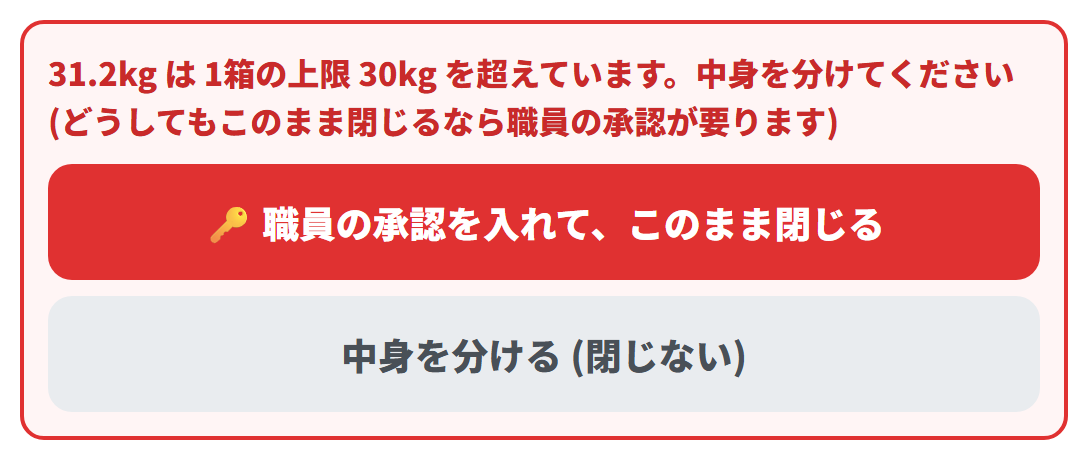
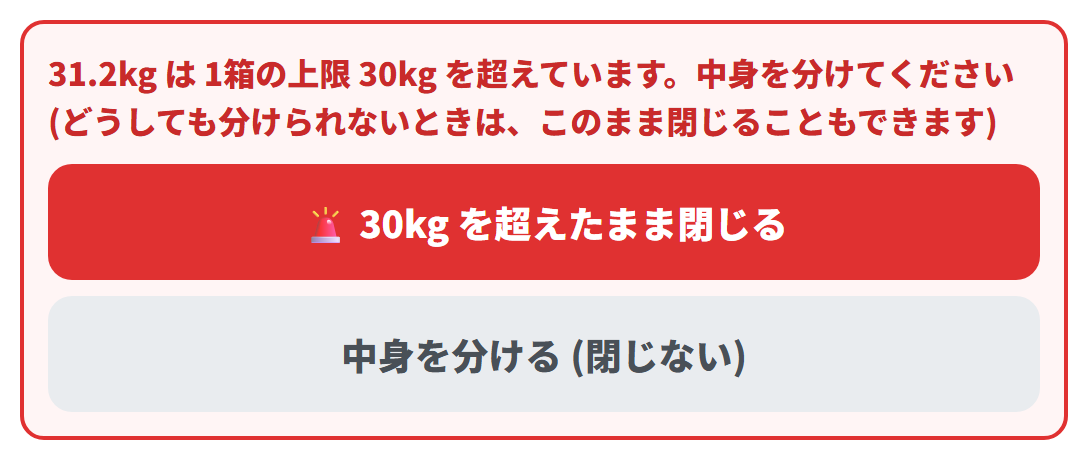
FBA箱詰め: 上限30kg超えで閉じるときの職員PINを外す (中原さん判断)
中原さん 2026-09-10「PIN も要らないかな」。
職員が近くにいないと箱が閉じられず、そこで作業が止まってしまうため。

外したもの:
- /api/boxes/:id/close の override に対する staffApproval (PIN / 管理者セッション)
- 画面の staffPinPrompt 経路。ボタンも「🔑 職員の承認を入れて…」→「🚨 30kg を超えたまま閉じる」

残したもの (歯止め):
- 二段階は維持。override を付けない1回目は今までどおり 409 で断る
  (= うっかり閉じるにはならない。必ず赤いパネルを一度見る)
- 誰が決めたかを箱に残す。limit_override_by = 閉じた作業者本人
  (作業者が分からない送信は今までどおり 400)
- 本社の出荷前チェック warnings.over_weight_limit は残す
  → 文面を「(職員の承認で閉じた箱)」→「(現場が『このまま閉じる』を選んだ箱)」に

副作用: 職員PIN の画面でダイアログが外れる経路が無くなったので、
Codex R2 P2 で入れた「⏳送信中」の板 (sticky) は不要になり撤去。
送信中のロックは setBusy (ボタン + 背景タップ) だけで足りる。

マニュアル: ⑦ に「どうしても分けられないときは閉じられる (決めた人の名前が残る)」、
⑨ の「PIN が要ること」から上限超えの承認を外し、理由と代わりの歯止めを書いた。画像も撮り直し。

検証:
  ux-fba-close-weight ② PIN 画面が出ない / 箱=closed / 決めた人=りようしゃ /
                        出荷前チェックに出る = 全部 ✅
  ux-fba-close-lost   ①〜⑤ 全部 ✅ (送信中ロックは板を外しても効く)
  ux-fba-manual-view  節10・画像10・欠けなし
  test-fba-box 132 / router 35 (over_limit の試験を書き換え) / place-queue 21 = 全部 PASS

Changed region(s): [[0.1875, 0.213, 0.9375, 0.3043], [0.1875, 0.4261, 0.8125, 0.5478]]

diff --git a/apps/fba-box/views/index.html b/apps/fba-box/views/index.html
@@ -1470,7 +1470,7 @@ ${j.message || ''}
            小さく出て見落とすので、画面の中に大きなボタンで置く (中原さん 2026-09-10) -->
       <div id="c-over" class="hidden" style="margin-top:14px; background:#FFF5F5; border:2px solid #E03131; border-radius:12px; padding:12px">
         <div id="c-over-t" style="font-weight:800; color:#C92A2A"></div>
-        <div style="margin-top:10px"><button class="bigbtn red" id="c-over-go">🔑 職員の承認を入れて、このまま閉じる</button></div>
+        <div style="margin-top:10px"><button class="bigbtn red" id="c-over-go">🚨 30kg を超えたまま閉じる</button></div>
         <div style="margin-top:8px"><button class="bigbtn sub" id="c-over-no">中身を分ける (閉じない)</button></div>
       </div>
       <div style="margin-top:16px"><button class="bigbtn green" id="c-go">この箱の封を閉じる (確定)</button></div>
@@ -1478,7 +1478,7 @@ ${j.message || ''}
       <div style="margin-top:8px"><button class="bigbtn sub" id="c-cancel">やめる (まだ閉じない)</button></div>
       <div class="msg" id="c-msg"></div>`);
     dlg.querySelector('#c-cancel')?.addEventListener('click', () => closeDialog());
-    /** 上限超え: 「分ける」か「職員の承認で閉じる」かを画面の中で選んでもらう */
+    /** 上限超え: 「分ける」か「このまま閉じる」かを画面の中で選んでもらう (二段階。PIN は要らない) */
     const showOverLimit = (message) => {
       dlg.querySelector('#c-over-t').textContent = message;
       dlg.querySelector('#c-over').classList.remove('hidden');
@@ -1490,7 +1490,8 @@ ${j.message || ''}
       dlg.querySelector('#c-go').classList.remove('hidden');
     });
     dlg.querySelector('#c-over-go')?.addEventListener('click', () => {
-      staffPinPrompt((staff, pin) => send({ staff, pin }));
+      if (!worker) { pickWorker(); return; }
+      send(true);   // override = 上限を承知で閉じる。決めた人 (いまの作業者) がサーバに残る
     });
     /**
      * 送信中は出口 (確定・やめる・背景タップ) を全部塞ぐ。
@@ -1533,30 +1534,20 @@ ${j.message || ''}
       const kg = parseFloat(kgIn.value), L = limits();
       if (!Number.isFinite(kg) || kg <= 0) { wmsg.textContent = ''; return; }
       const g = kg * 1000;
-      if (g > L.limitG) { wmsg.style.color = '#C92A2A'; wmsg.innerHTML = `🚨 上限 ${L.limitG / 1000}kg 超え — 中身を分けてください (このまま閉じるには職員の承認が要ります)`; }
+      if (g > L.limitG) { wmsg.style.color = '#C92A2A'; wmsg.innerHTML = `🚨 上限 ${L.limitG / 1000}kg 超え — 中身を分けてください (確定を押すと、このまま閉じるか選べます)`; }
       else if (g > L.targetG) { wmsg.style.color = '#B5651D'; wmsg.innerHTML = `⚠ 目標 ${L.targetG / 1000}kg を超えています (上限 ${L.limitG / 1000}kg まではこのまま閉じられます)`; }
       else { wmsg.style.color = '#2B8A3E'; wmsg.textContent = '✓ 重さは問題ありません'; }
     });
-    /** 送信。上限超えは職員の承認 (auth_worker_id + PIN) を添えて送り直す */
-    const send = async (auth) => {
+    /** 送信。override = 上限 30kg を超えたまま閉じる (二段階の2回目。PIN は要らない) */
+    const send = async (override) => {
       const msg = dlg.querySelector('#c-msg');
-      // 職員PINの画面を出すとこのダイアログは閉じられている → 承認後のエラーは alert で見せる
-      const showErr = (m) => { if (auth) alert(m); else { msg.className = 'msg err'; msg.textContent = m; } };
+      const showErr = (m) => { msg.className = 'msg err'; msg.textContent = m; };
       const kg = parseFloat(kgIn.value);
       if (!Number.isFinite(kg) || kg <= 0) { showErr('はかりの重さ (kg) を入れてください'); return; }
-      // 職員PINの画面を出すとこのダイアログは閉じられている。承認後の再送信は
-      // ボタンを disabled にしても効かない (外れたダイアログのボタンなので) →
-      // 「送信中」の板を出して画面ごと塞ぐ (Codex PR #1299 R2 P2)
-      let busyBoard = false;
-      const startBusy = () => {
-        if (!auth) { setBusy(true); return; }
-        openDialog('<h2>⏳ 送信中</h2><div style="text-align:center; margin:12px 0">箱を閉じています。そのままお待ちください</div>', { sticky: true });
-        busyBoard = true;
-      };
-      const endBusy = () => {
-        if (!auth) { setBusy(false); return; }
-        if (busyBoard) { busyBoard = false; closeDialog(); }
-      };
+      // このダイアログは送信のあいだ出たままなので、ボタンを塞げばよい
+      // (以前は職員PINの画面でダイアログが外れていたため「送信中」の板が要った)
+      const startBusy = () => setBusy(true);
+      const endBusy = () => setBusy(false);
       /**
        * 🚨 送ったのに結果が分からないときの後始末。閉じたのか閉じていないのか分からないので、
        *    黙って「やめる (まだ閉じない)」に戻さない。まずサーバに聞き直す (Codex PR #1299 R2 P1)。
@@ -1573,7 +1564,7 @@ ${j.message || ''}
         }
         if (after === 'open') { showErr('送れませんでした (通信が切れました)。この箱はまだ閉じていません。もう一度押してください'); return; }
         const unknown = '❓ 送れたかどうか分かりません。通信が戻ってから、もう一度「この箱の封を閉じる (確定)」を押してください (すでに閉じていれば その旨が出ます)';
-        if (auth) alert(unknown); else markUnknown(unknown);
+        markUnknown(unknown);
       };
       let j;
       startBusy();
@@ -1581,7 +1572,7 @@ ${j.message || ''}
         j = await apiPost(`/api/boxes/${b.id}/close`, {
           worker_id: worker.id, measured_kg: kg, closed_reason: reason, cushion_level: cushion,
           content_version: contentVersion,
-          ...(auth ? { override: true, auth_worker_id: auth.staff.id, auth_pin: auth.pin } : {}),
+          ...(override ? { override: true } : {}),
         });
       } catch {
         await lostReply();
@@ -1597,7 +1588,6 @@ ${j.message || ''}
           return;
         }
         if (j.error === 'over_limit') {    // 上限超え = 実測が Amazon の受入条件を超えた (要件 §7)
-          if (auth) { alert(j.message); return; }   // 承認つきで来て弾かれた = ダイアログはもう無い
           showOverLimit(j.message);
           return;
         }
@@ -1612,7 +1602,7 @@ ${j.message || ''}
     };
     dlg.querySelector('#c-go').addEventListener('click', () => {
       if (!worker) { pickWorker(); return; }
-      send(null);
+      send(false);
     });
   }
 

diff --git a/apps/fba-box/db.js b/apps/fba-box/db.js
@@ -1574,7 +1574,7 @@ export function closeBox({ boxId, measuredKg, closedReason, cushionLevel, worker
     const measuredG = Math.round(kg * 1000);
     if (measuredG > limits.limitG && !staffApproved) {
       return { ok: false, error: 'over_limit', limitKg: limits.limitG / 1000, measuredKg: kg,
-        message: `${kg}kg は 1箱の上限 ${limits.limitG / 1000}kg を超えています。中身を分けてください (どうしてもこのまま閉じるなら職員の承認が要ります)` };
+        message: `${kg}kg は 1箱の上限 ${limits.limitG / 1000}kg を超えています。中身を分けてください (どうしても分けられないときは、このまま閉じることもできます)` };
     }
     const est = estimateBoxWeight(b.id, d);
     const overLimit = measuredG > limits.limitG;
@@ -2454,11 +2454,12 @@ export function exportReadiness(runId) {
   const mats = new Map(listMaterials(true).map((m) => [m.code, m]));
   const noDims = live.filter((b) => { const m = mats.get(b.material_code); return !(m && m.width_cm > 0 && m.length_cm > 0 && m.height_cm > 0); });
   if (noDims.length > 0) warnings.push({ code: 'no_dims', message: `外寸が未設定の資材の箱が ${noDims.length} 箱あります (Excel の幅・長さ・高さは空欄 → STA 画面で入力。管理画面の資材で外寸を登録すると次回から自動)`, boxes: noDims.map(boxBrief) });
-  // PR3: 上限超えは職員の承認でしか閉じられないが、通ってしまった箱は本社にも見えるようにする
+  // PR3: 上限超えは二段階でしか閉じられない (1回目は必ず断る) が、通した箱は本社にも見えるようにする。
+  // 🚨 ここが最後の歯止め。現場側の PIN を外した (中原さん 2026-09-10) ぶん、この警告は消さない
   const wl = runWeightLimits(run);
   const overLimit = live.filter((b) => b.status === 'closed' && Number(b.measured_weight_kg) * 1000 > wl.limitG);
   if (overLimit.length > 0) {
-    warnings.push({ code: 'over_weight_limit', message: `1箱の上限 ${wl.limitG / 1000}kg を超えた箱が ${overLimit.length} 箱あります (職員の承認で閉じた箱)。Amazon 側で受入不可・追加料金になることがあります`,
+    warnings.push({ code: 'over_weight_limit', message: `1箱の上限 ${wl.limitG / 1000}kg を超えた箱が ${overLimit.length} 箱あります (現場が「このまま閉じる」を選んだ箱)。Amazon 側で受入不可・追加料金になることがあります`,
       boxes: overLimit.map((b) => ({ ...boxBrief(b), weightKg: b.measured_weight_kg, approvedBy: b.limit_override_by || null })) });
   }
   if (exportState.latest) {

diff --git a/apps/fba-box/views/manual.html b/apps/fba-box/views/manual.html
@@ -186,9 +186,10 @@
     <table>
       <tr><th>⚖ 推定 ○○kg</th><td>登録してある <b>1個の重さ</b> から計算した目安です。1個ずつ量っているわけではないので、<b>ずれることがあります</b></td></tr>
       <tr><th>はかりと推定が違う</th><td>閉じたあとに小さく出るだけです。<b>作業は止まりません</b>。数え直す必要はありません</td></tr>
-      <tr><th>上限 30kg を超えた</th><td><b>ここだけ止まります。</b> Amazon が受け取れない重さだからです</td></tr>
+      <tr><th>上限 30kg を超えた</th><td><b>ここだけ一度止まります。</b> Amazon が受け取れない重さだからです。
+どうしても分けられないときは <kbd>🚨 30kg を超えたまま閉じる</kbd> で閉じられます (決めた人の名前が残ります)</td></tr>
     </table>
-    <figure><img src="/app-images/fba-box/manual/m09-overlimit.png" alt="上限を超えたときの画面"><figcaption>中身を分けるのが基本。どうしてもこのまま閉じるときは職員の PIN が要ります</figcaption></figure>
+    <figure><img src="/app-images/fba-box/manual/m09-overlimit.png" alt="上限を超えたときの画面"><figcaption>中身を分けるのが基本。どうしても分けられないときは、そのまま閉じることもできます</figcaption></figure>
     <div class="callout stop">
       30kg を超えた箱は、<b>持ち上げるのも危ないし、Amazon で受け取ってもらえないことがあります。</b>
       まずは <kbd>中身を分ける (閉じない)</kbd> を選んでください。
@@ -219,7 +220,9 @@
       <li>PIN を持つ職員が 1 人もいない最初だけ、PIN なしで登録できます。</li>
     </ol>
     <ul class="notes">
-      <li>PIN が要るのは <b>箱の取消</b>・<b>上限 30kg 超えの承認</b>・<b>送る数を直す</b>・<b>作業を終える</b> です。</li>
+      <li>PIN が要るのは <b>箱の取消</b>・<b>送る数を直す</b>・<b>作業を終える</b> です。</li>
+      <li><b>上限 30kg 超えで閉じるのに PIN は要りません</b> (職員がいないと箱が閉じられず、作業が止まるため)。
+そのかわり <b>だれが「このまま閉じる」を選んだか</b> が箱に残り、本社の出荷前チェックにも出ます。</li>
       <li>記録の <b>訂正・取消</b> に PIN は要りません (まちがいはその場で直せた方がよいため)。</li>
     </ul>
   </section>

diff --git a/apps/fba-box/router.js b/apps/fba-box/router.js
@@ -535,11 +535,15 @@ router.get('/api/boxes/:id(\\d+)', api((req, res) => {
 router.post('/api/boxes/:id(\\d+)/close', checkOrigin, api((req, res) => {
   const w = resolveWorker(req);
   if (w.error) return res.status(400).json({ ok: false, error: 'worker_required', message: w.error });
+  // 上限超えを承知で閉じる。
+  // 🚨 職員PIN は要らない (中原さん 2026-09-10)。職員が近くにいないと箱が閉じられず、
+  //    作業がそこで止まってしまうため。そのかわり必ず二段階にして (override を付けない
+  //    1回目は 409 で断る)、**誰が決めたか**を箱に残す = 閉じた作業者本人。
+  //    上限超えの箱は本社の出荷前チェック (over_weight_limit) にも必ず出る
   let staffApproved = false, approvedBy = null;
   if (req.body?.override === true) {
-    const gate = staffApproval(req);
-    if (!gate.ok) return res.status(gate.status).json(gate.body);
-    staffApproved = true; approvedBy = gate.approvedBy;
+    staffApproved = true;
+    approvedBy = w.worker?.display_name || null;
   }
   const r = closeBox({
     boxId: Number(req.params.id), measuredKg: req.body?.measured_kg,
